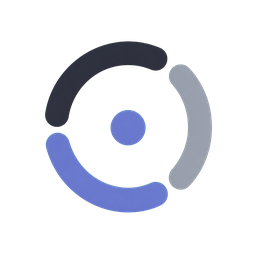
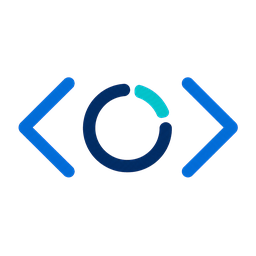
Prepare 0.3.1 for HACS publishing

Changed region(s): [[0.0625, 0.1562, 0.9375, 0.8438], [0.3125, 0.3125, 0.6875, 0.6875]]

diff --git a/tests/test_metadata.py b/tests/test_metadata.py
@@ -46,7 +46,7 @@ def test_hacs_and_manifest_metadata() -> None:
     assert manifest["domain"] == "codex_usage"
     assert manifest["config_flow"] is True
     assert manifest["iot_class"] == "cloud_polling"
-    assert manifest["version"] == "0.3.0"
+    assert manifest["version"] == "0.3.1"
     assert hacs["homeassistant"] == "2026.3.0"
     assert set(hacs) == {"homeassistant", "name"}
 

diff --git a/tests/test_api.py b/tests/test_api.py
@@ -376,6 +376,6 @@ def test_usage_request_sends_workspace_and_fedramp_headers() -> None:
     assert session.last_headers == {
         "Authorization": "Bearer access-token",
         "ChatGPT-Account-Id": "workspace-1",
-        "User-Agent": "HomeAssistant-CodexUsage/0.3.0",
+        "User-Agent": "HomeAssistant-CodexUsage/0.3.1",
         "X-OpenAI-Fedramp": "true",
     }

diff --git a/custom_components/codex_usage/api.py b/custom_components/codex_usage/api.py
@@ -29,7 +29,7 @@ from .const import (
 )
 
 REQUEST_TIMEOUT = aiohttp.ClientTimeout(total=20)
-USER_AGENT = "HomeAssistant-CodexUsage/0.3.0"
+USER_AGENT = "HomeAssistant-CodexUsage/0.3.1"
 
 
 class CodexApiError(Exception):

diff --git a/README.md b/README.md
@@ -9,7 +9,7 @@
 
 `Codex Usage` is a custom Home Assistant integration that monitors the usage limits of Codex included with ChatGPT plans. It is installed through HACS as a custom repository and supports multiple ChatGPT workspaces.
 
-Its structure and idea started as an adaptation of [`trickv/hass-claude-usage`](https://github.com/trickv/hass-claude-usage) by [**trickv**](https://github.com/trickv), retargeted from Claude to OpenAI Codex/ChatGPT. See [ACKNOWLEDGEMENTS.md](ACKNOWLEDGEMENTS.md) for the full credit.
+Codex Usage is an independent implementation. Its initial product concept was inspired by [`trickv/hass-claude-usage`](https://github.com/trickv/hass-claude-usage) by [**trickv**](https://github.com/trickv). See [ACKNOWLEDGEMENTS.md](ACKNOWLEDGEMENTS.md) for details.
 
 > [!IMPORTANT]
 > This is an independent community integration. It is not affiliated with or supported by OpenAI. The ChatGPT usage endpoint is used by the official open-source Codex client but is not documented as a stable public REST API, and this integration reuses the Codex CLI's public OAuth client ID rather than one issued to this project. OpenAI can change or restrict either at any time without notice.
@@ -151,7 +151,7 @@ Diagnostics (**Settings → Devices & services → Codex Usage → Download diag
 ```bash
 python -m venv .venv
 .venv/Scripts/activate        # Windows
-pip install homeassistant==2026.6.4 pytest ruff
+pip install homeassistant==2026.7.2 pytest ruff
 ruff format .
 ruff check .
 pytest

diff --git a/ACKNOWLEDGEMENTS.md b/ACKNOWLEDGEMENTS.md
@@ -1,6 +1,5 @@
 # Acknowledgements
 
-The project structure and initial product idea were inspired by [`trickv/hass-claude-usage`](https://github.com/trickv/hass-claude-usage), created by [**trickv**](https://github.com/trickv) and available under the MIT License. This project retargets that idea from Claude usage tracking to OpenAI Codex/ChatGPT usage tracking.
+The initial product concept was inspired by [`trickv/hass-claude-usage`](https://github.com/trickv/hass-claude-usage), created by [**trickv**](https://github.com/trickv) and available under the MIT License. Codex Usage is an independent implementation for OpenAI Codex and ChatGPT usage tracking.
 
 The OpenAI authentication and usage contracts are based on the official open-source [`openai/codex`](https://github.com/openai/codex) client. Codex and ChatGPT are trademarks of OpenAI. This project is not affiliated with OpenAI.
-

diff --git a/CHANGELOG.md b/CHANGELOG.md
@@ -2,6 +2,18 @@
 
 All notable changes to this project are documented here.
 
+## 0.3.1 - 2026-07-12
+
+- Add a new neutral, brand-independent integration icon designed for clear
+  display at Home Assistant icon sizes.
+- Refine the README and acknowledgements for HACS publishing while preserving
+  the API stability, authentication, trademark, and attribution disclosures.
+- Streamline the public repository to integration, user, contributor, and
+  maintenance documentation relevant to the project.
+- Update GitHub Actions to current Node 24-based action releases and validate
+  against Home Assistant 2026.7.2 while retaining the 2026.3.0 minimum test.
+- No runtime behavior changes from 0.3.0.
+
 ## 0.3.0 - 2026-07-12
 
 - Restore correct weekly usage reporting for the new response shape where a
